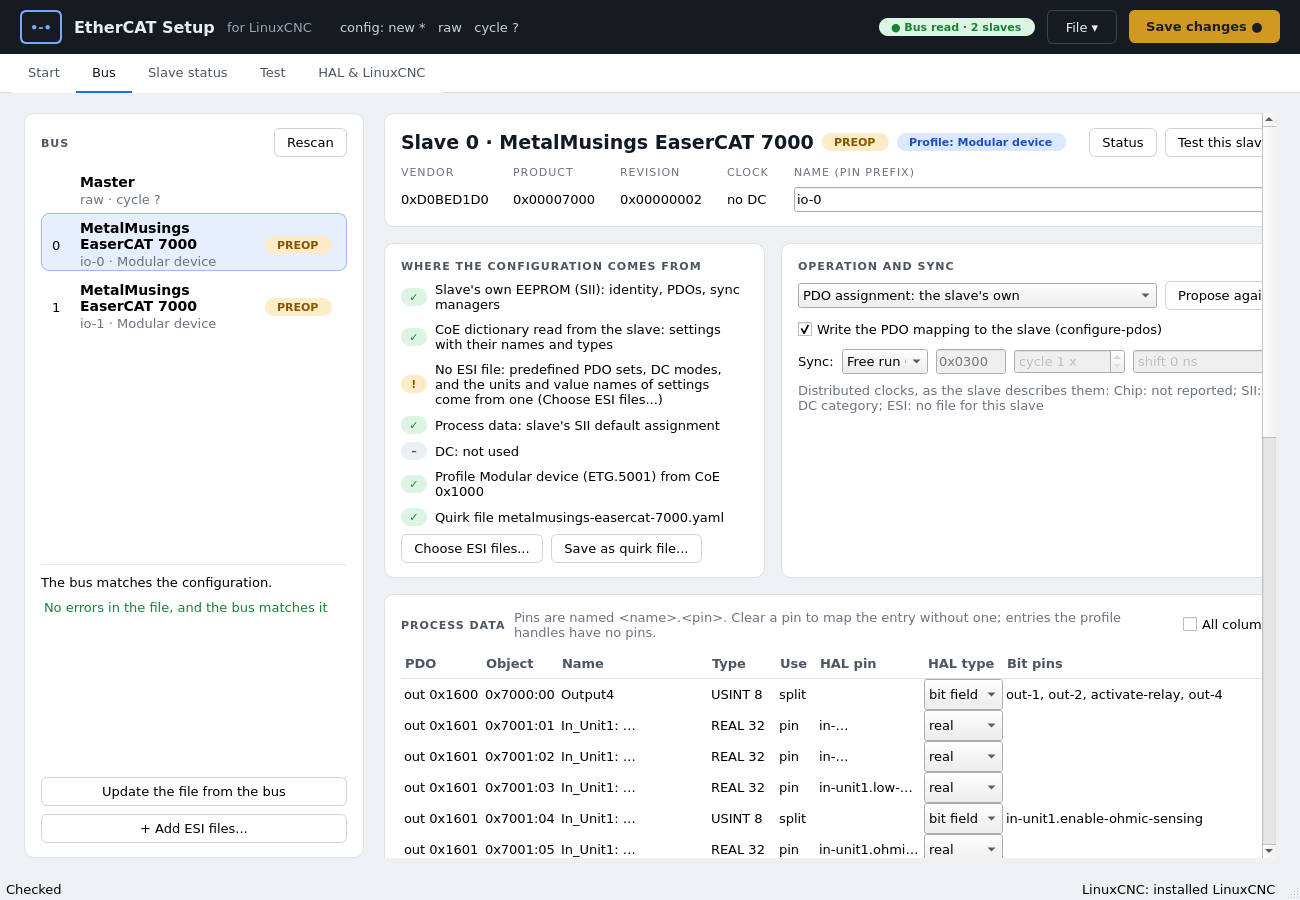
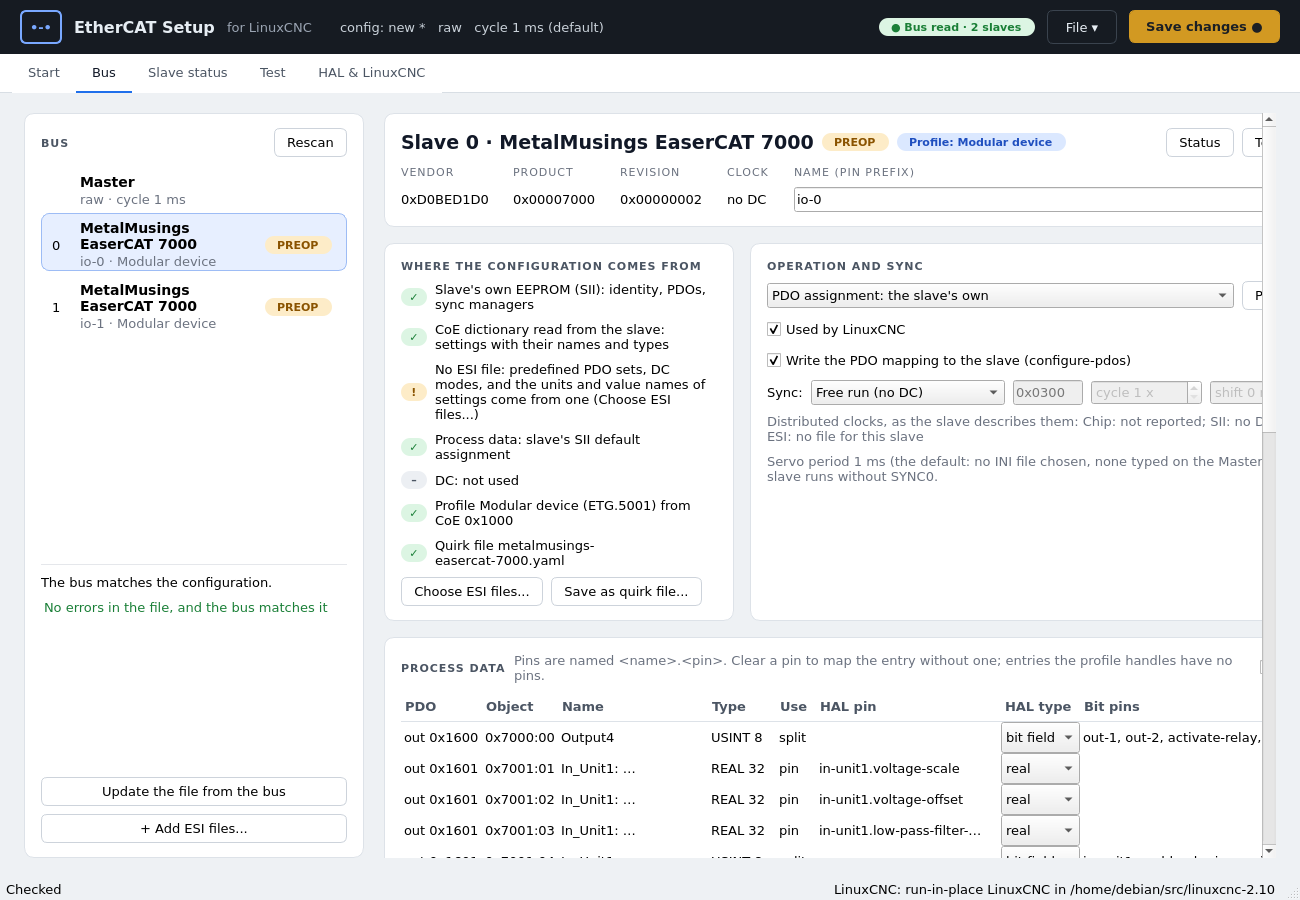
Docs: screenshots of the slave page, Test page and Slave status taken again; the slave page's period line follows the title bar's default

diff --git a/ecatsetup/gui.py b/ecatsetup/gui.py
@@ -1805,18 +1805,17 @@ class SlaveView(QWidget):
         """The SYNC0 cycle this slave gets (the servo period times its factor), and what was
         measured on this kind of device at servo periods that were tried ("" for none)."""
         period = self.win.session.period
+        shown = period or 1000000          # as the title bar: 1 ms until an INI file or a typed period
+        how = "" if period else " (the default: no INI file chosen, none typed on the Master page)"
         dc = s.get("dc")
         out = []
-        if dc is not None and period and dcinfo.parse_assign(dc.get("assign-activate", "")):
+        if dc is not None and dcinfo.parse_assign(dc.get("assign-activate", "")):
             n = int(dc.get("sync0-cycles") or 1)
-            out.append("SYNC0 every %s: the servo period %s times cycle %d."
-                       % (_us_text(period * n), _us_text(period), n))
-        elif period:
-            out.append("Servo period %s; this slave runs without SYNC0." % _us_text(period))
+            out.append("SYNC0 every %s: the servo period %s%s times cycle %d."
+                       % (_us_text(shown * n), _us_text(shown), how, n))
         else:
-            out.append("The servo period is not known (choose the INI file on the HAL page, or "
-                       "type it on the Master page).")
-        m = measured.line(s, period)
+            out.append("Servo period %s%s; this slave runs without SYNC0." % (_us_text(shown), how))
+        m = measured.line(s, period) if period else ""
         if m:
             out.append(m + ".")
         return "\n".join(out)

diff --git a/tests/test_gui.py b/tests/test_gui.py
@@ -1281,7 +1281,8 @@ class TestWindow(WindowBase):
         self.assertTrue(all("measured" not in t for lv, t in w.session.dc_problems()))     # no DC: not about SYNC0
         w.session.period = None
         page.show_dc_warnings(s)
-        self.assertIn("servo period is not known", page.dc_cycle.text())
+        self.assertIn("Servo period 1 ms (the default: no INI file chosen", page.dc_cycle.text())
+        self.assertNotIn("Measured", page.dc_cycle.text())              # nothing to compare with
         # a device nothing was measured on
         s["identity"] = {"vendor": "0x00000002", "product": "0x03F03052"}
         w.session.period = 125000
